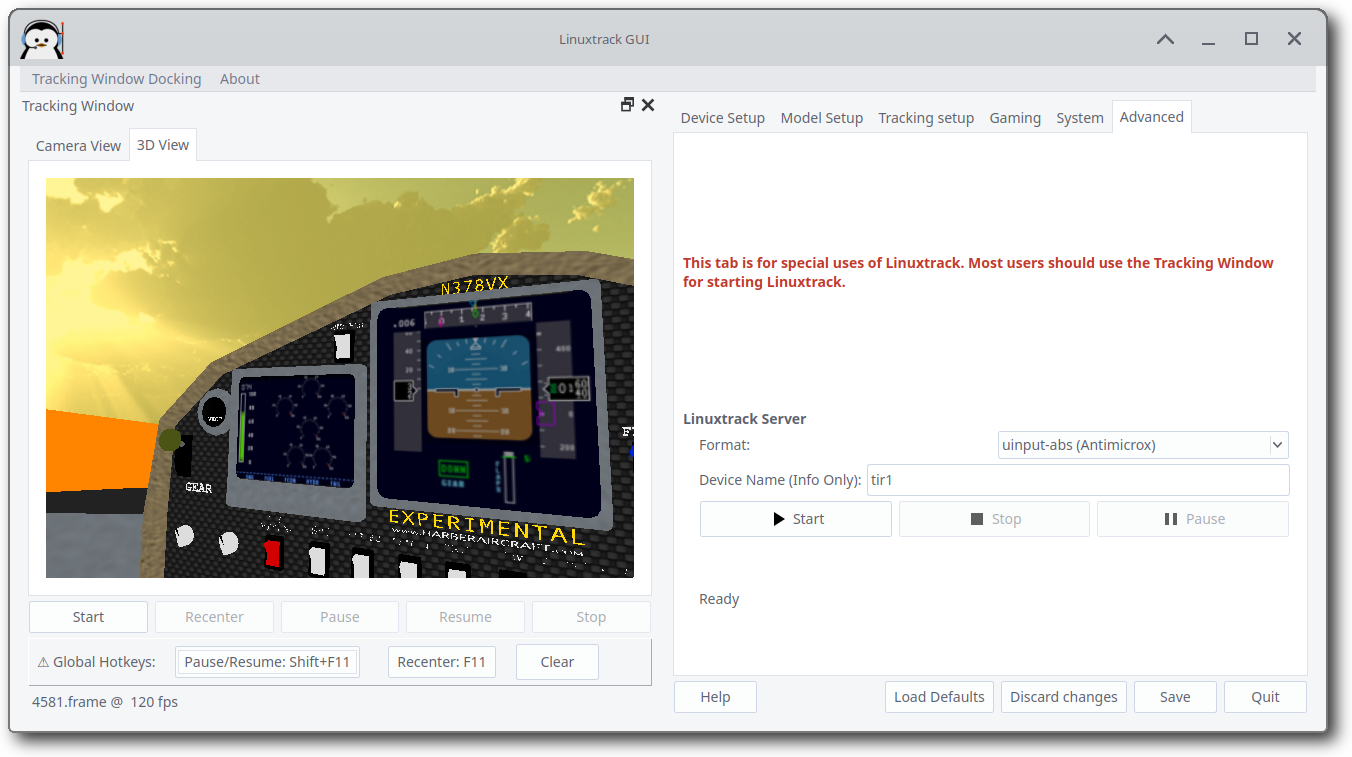
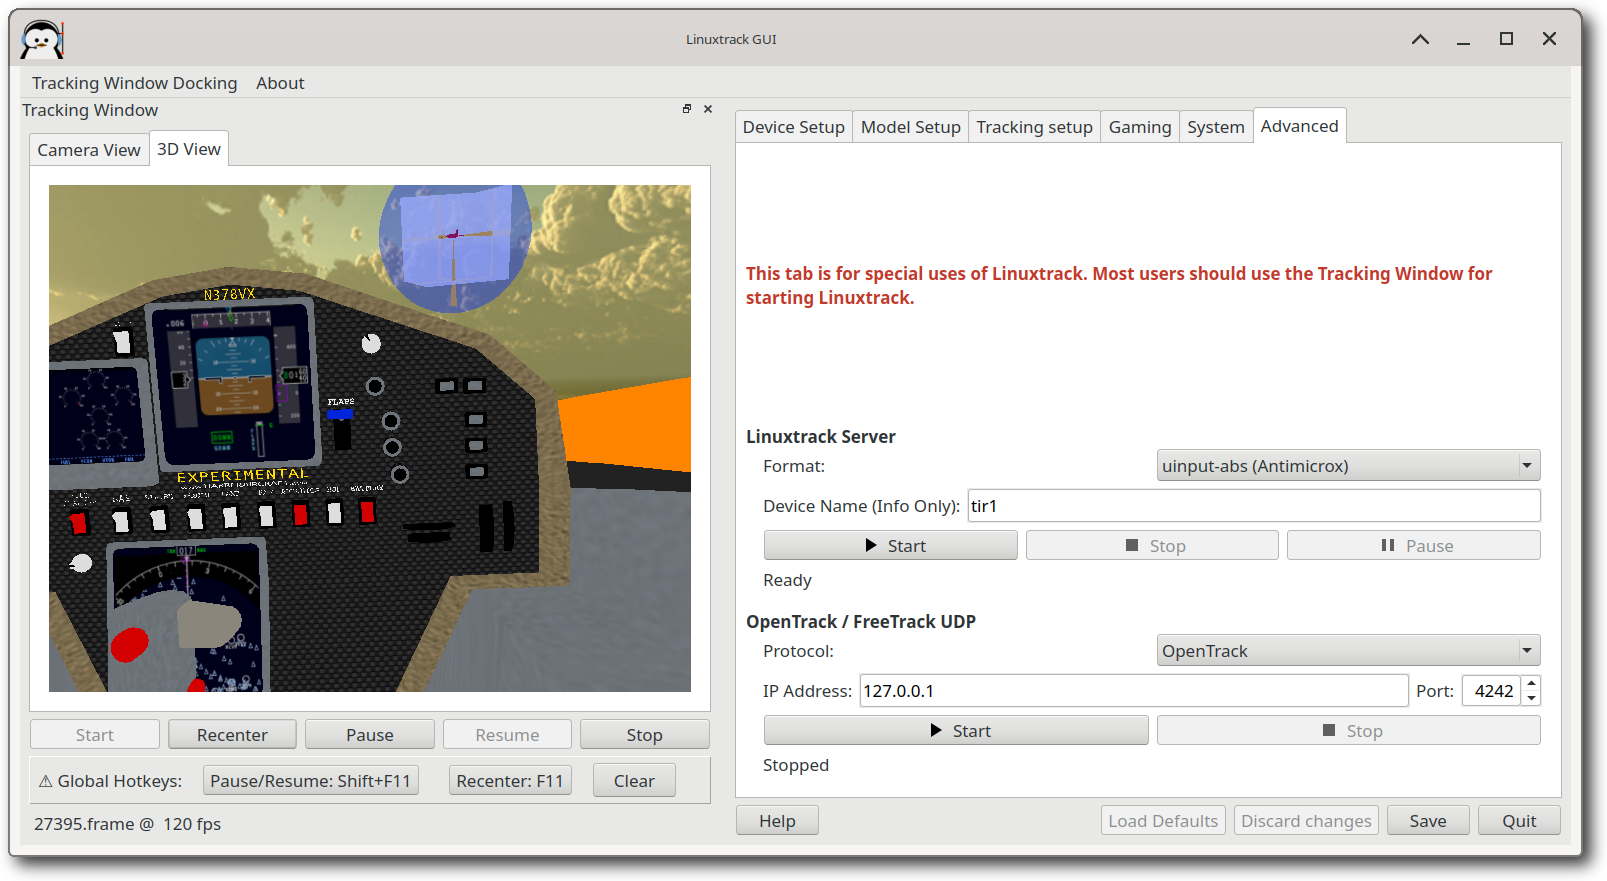
docs: refresh Advanced Tab screenshot and OpenTrack UDP help (#62)
Update in-app Advanced Tab help to match the OpenTrack / FreeTrack UDP
UI and replace the screenshot that now shows those controls.

diff --git a/src/qt_gui/help/advanced_tab.htm b/src/qt_gui/help/advanced_tab.htm
@@ -13,12 +13,12 @@
 <strong>This tab is for special uses of Linuxtrack.</strong> Most users should use the <strong>Tracking Window</strong> for starting Linuxtrack. Use the Start/Stop buttons in the Tracking Window to run head tracking for normal use.
 </p>
 <p>
-The Advanced tab provides the Linuxtrack Server (<code>ltr_pipe</code>) controls for special output formats such as uinput-abs for AntiMicroX, FlightGear, IL-2 Shturmovik, and Silent Wings. It also provides the <strong>OpenTrack / FreeTrack UDP Bridge</strong> (<code>ltr_udp</code>) for games that speak the OpenTrack UDP protocol (for example X4 Foundations). Use this tab when you need one of these specific output modes.
+The Advanced tab provides the Linuxtrack Server (<code>ltr_pipe</code>) controls for special output formats such as uinput-abs for AntiMicroX, FlightGear, IL-2 Shturmovik, and Silent Wings. It also provides the <strong>OpenTrack / FreeTrack UDP</strong> section (<code>ltr_udp</code>) for games that speak the OpenTrack UDP protocol (for example X4 Foundations). Use this tab when you need one of these specific output modes.
 
 <table>
 <tr>
 <td>
-<img src="Advanced tab.png" alt="Advanced tab offering specialized servers for tracking output">
+<img src="Advanced tab.png" alt="Advanced tab with Linuxtrack Server and OpenTrack / FreeTrack UDP controls">
 </td>
 </tr>
 </table>
@@ -71,9 +71,9 @@ The Linuxtrack Server section controls the head tracking data output format and 
 <strong>Purpose:</strong> Provides real-time feedback about the Linuxtrack server state.
 </p>
 
-<h2>OpenTrack / FreeTrack UDP Bridge</h2>
+<h2>OpenTrack / FreeTrack UDP</h2>
 <p>
-The UDP Bridge section runs <code>ltr_udp</code>, which sends head-tracking pose data over UDP in an OpenTrack-compatible or FreeTrack-compatible packet format.
+The <strong>OpenTrack / FreeTrack UDP</strong> section runs <code>ltr_udp</code>, which sends head-tracking pose data over UDP in an OpenTrack-compatible or FreeTrack-compatible packet format.
 </p>
 <p>
 <strong>Typical use:</strong> native Linux games that wait for an OpenTrack UDP connection (default destination <code>127.0.0.1:4242</code>), such as X4 Foundations with head tracking enabled.
@@ -89,11 +89,14 @@ The UDP Bridge section runs <code>ltr_udp</code>, which sends head-tracking pose
 Translation values are sent in centimeters for OpenTrack packets. Rotation values are degrees. Prefer localhost unless you intentionally stream pose data to another machine on your network.
 </p>
 
-<h3>UDP Bridge controls</h3>
+<h3>UDP controls</h3>
 <ul>
-  <li><strong>Start</strong> — starts <code>ltr_udp</code> (tracking must already be running)</li>
+  <li><strong>Start</strong> — starts <code>ltr_udp</code> (enabled only when tracking is already running)</li>
   <li><strong>Stop</strong> — stops <code>ltr_udp</code></li>
 </ul>
+<p>
+Status text shows whether packets are being sent (for example <code>Sending OpenTrack data to 127.0.0.1:4242</code>) or <code>Stopped</code>.
+</p>
 <p>
 You can also run the same tool from a terminal: <code>ltr_udp --ip=127.0.0.1 --port=4242</code>. See <code>man ltr_udp</code> after install.
 </p>
@@ -179,6 +182,10 @@ LinuxTrack includes a powerful feature that allows you to use head tracking with
 <strong>If the Linuxtrack server fails to start:</strong> Ensure tracking is working in the Tracking Window first. The server uses the same tracking pipeline.</p>
 <p>
 <strong>If the correct output format is not selected:</strong> Choose the format before clicking Start. Format cannot be changed while the server is running.</p>
+<p>
+<strong>If OpenTrack / FreeTrack UDP Start is disabled:</strong> Start tracking in the Tracking Window first. <code>ltr_udp</code> requires an active tracker.</p>
+<p>
+<strong>If a game does not receive OpenTrack data:</strong> Confirm the destination is <code>127.0.0.1:4242</code> (or the IP/port the game expects), that status shows sending, and that no other local listener is bound exclusively to that port while the game needs it.</p>
 <p>
 For Wine Bridge, prerequisites, and game integration, see the <a href="gaming_tab.htm">Gaming Tab</a> and <a href="extractor.htm">TrackIR Firmware/Wine Integration Setup</a> guide.</p>
 
